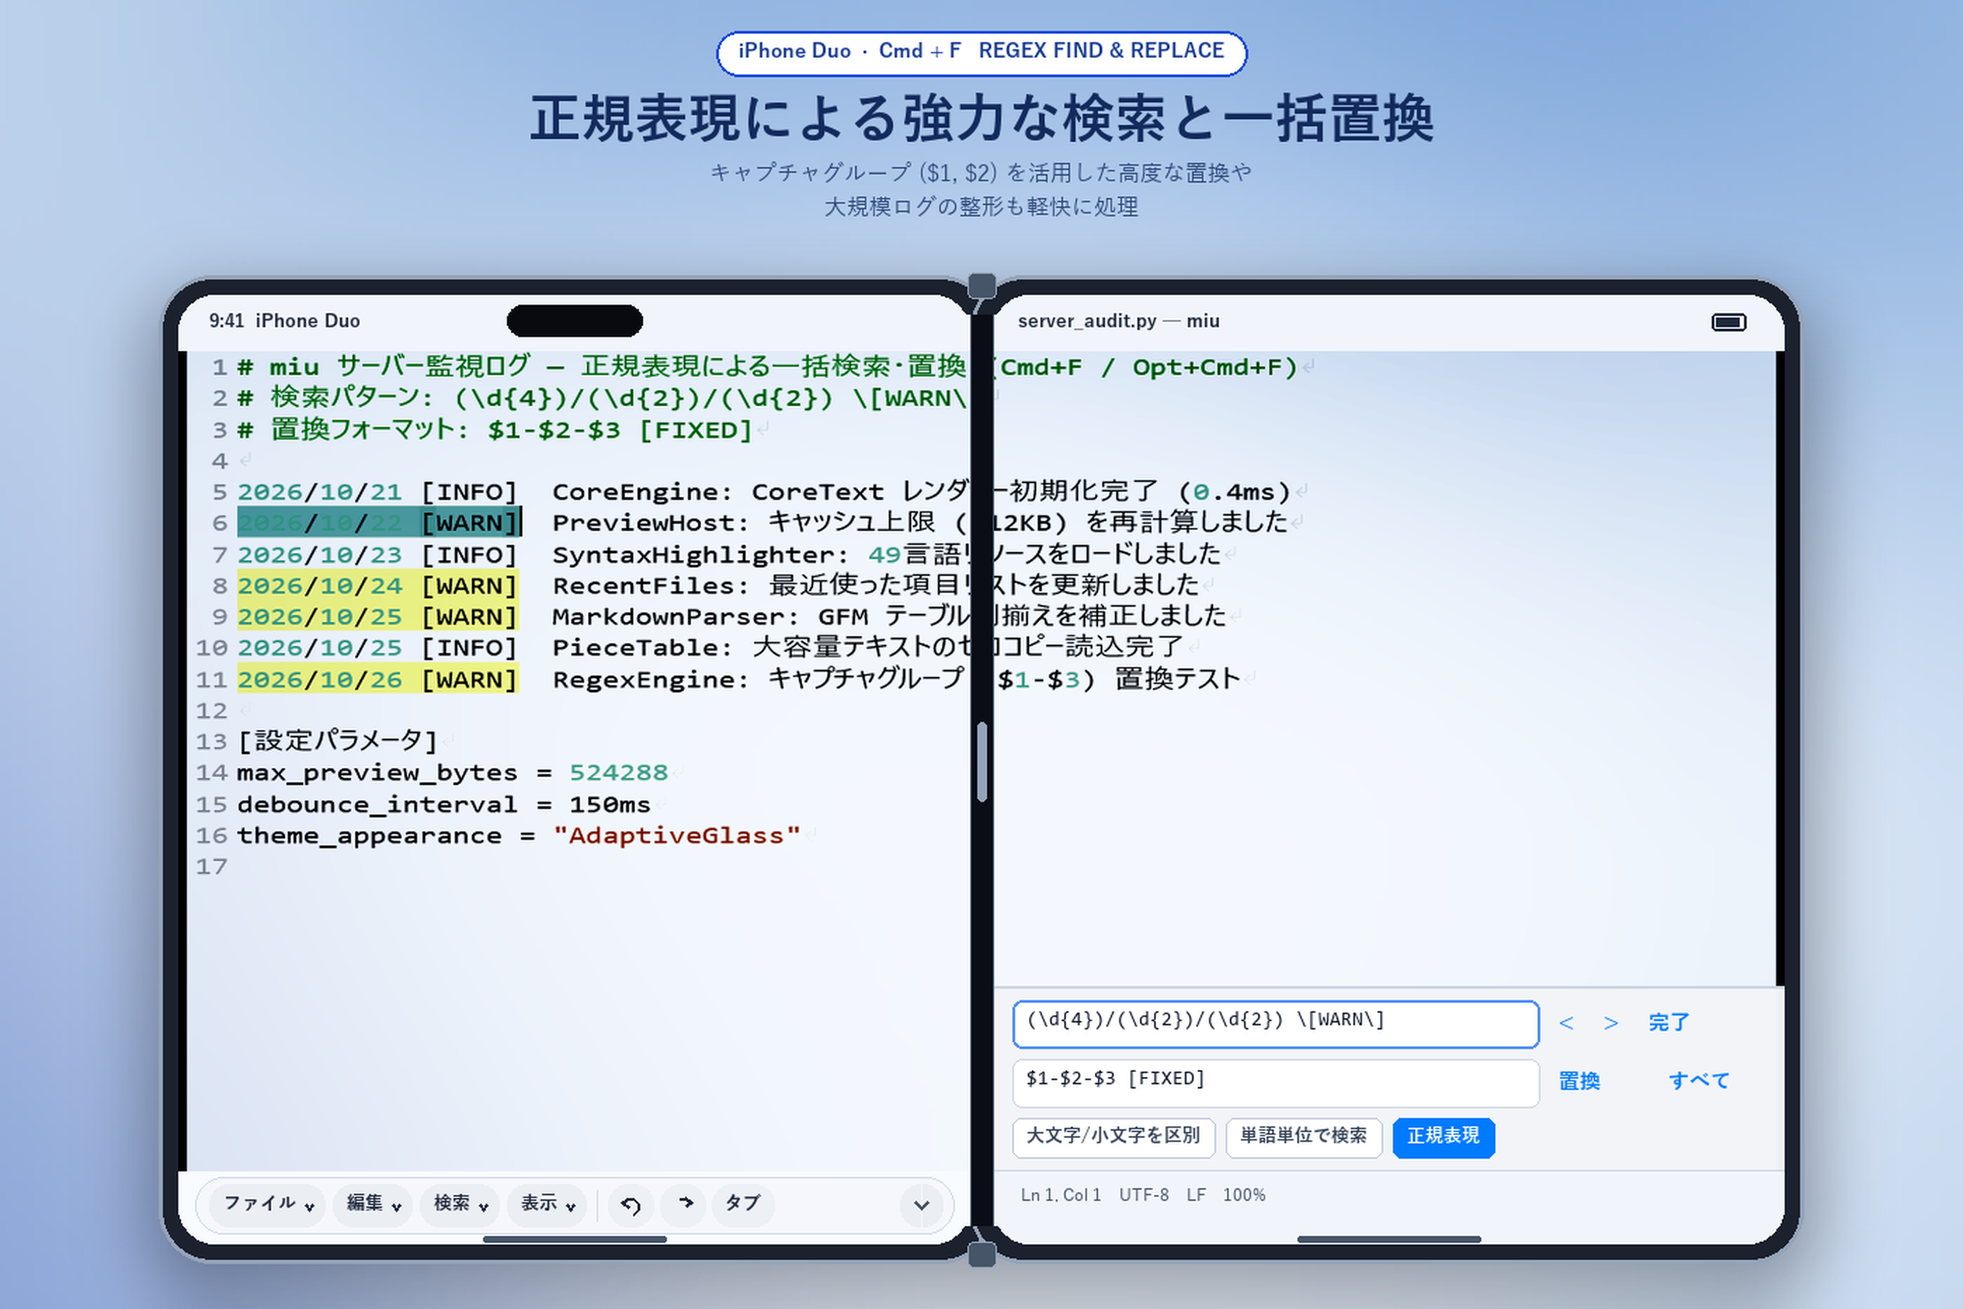
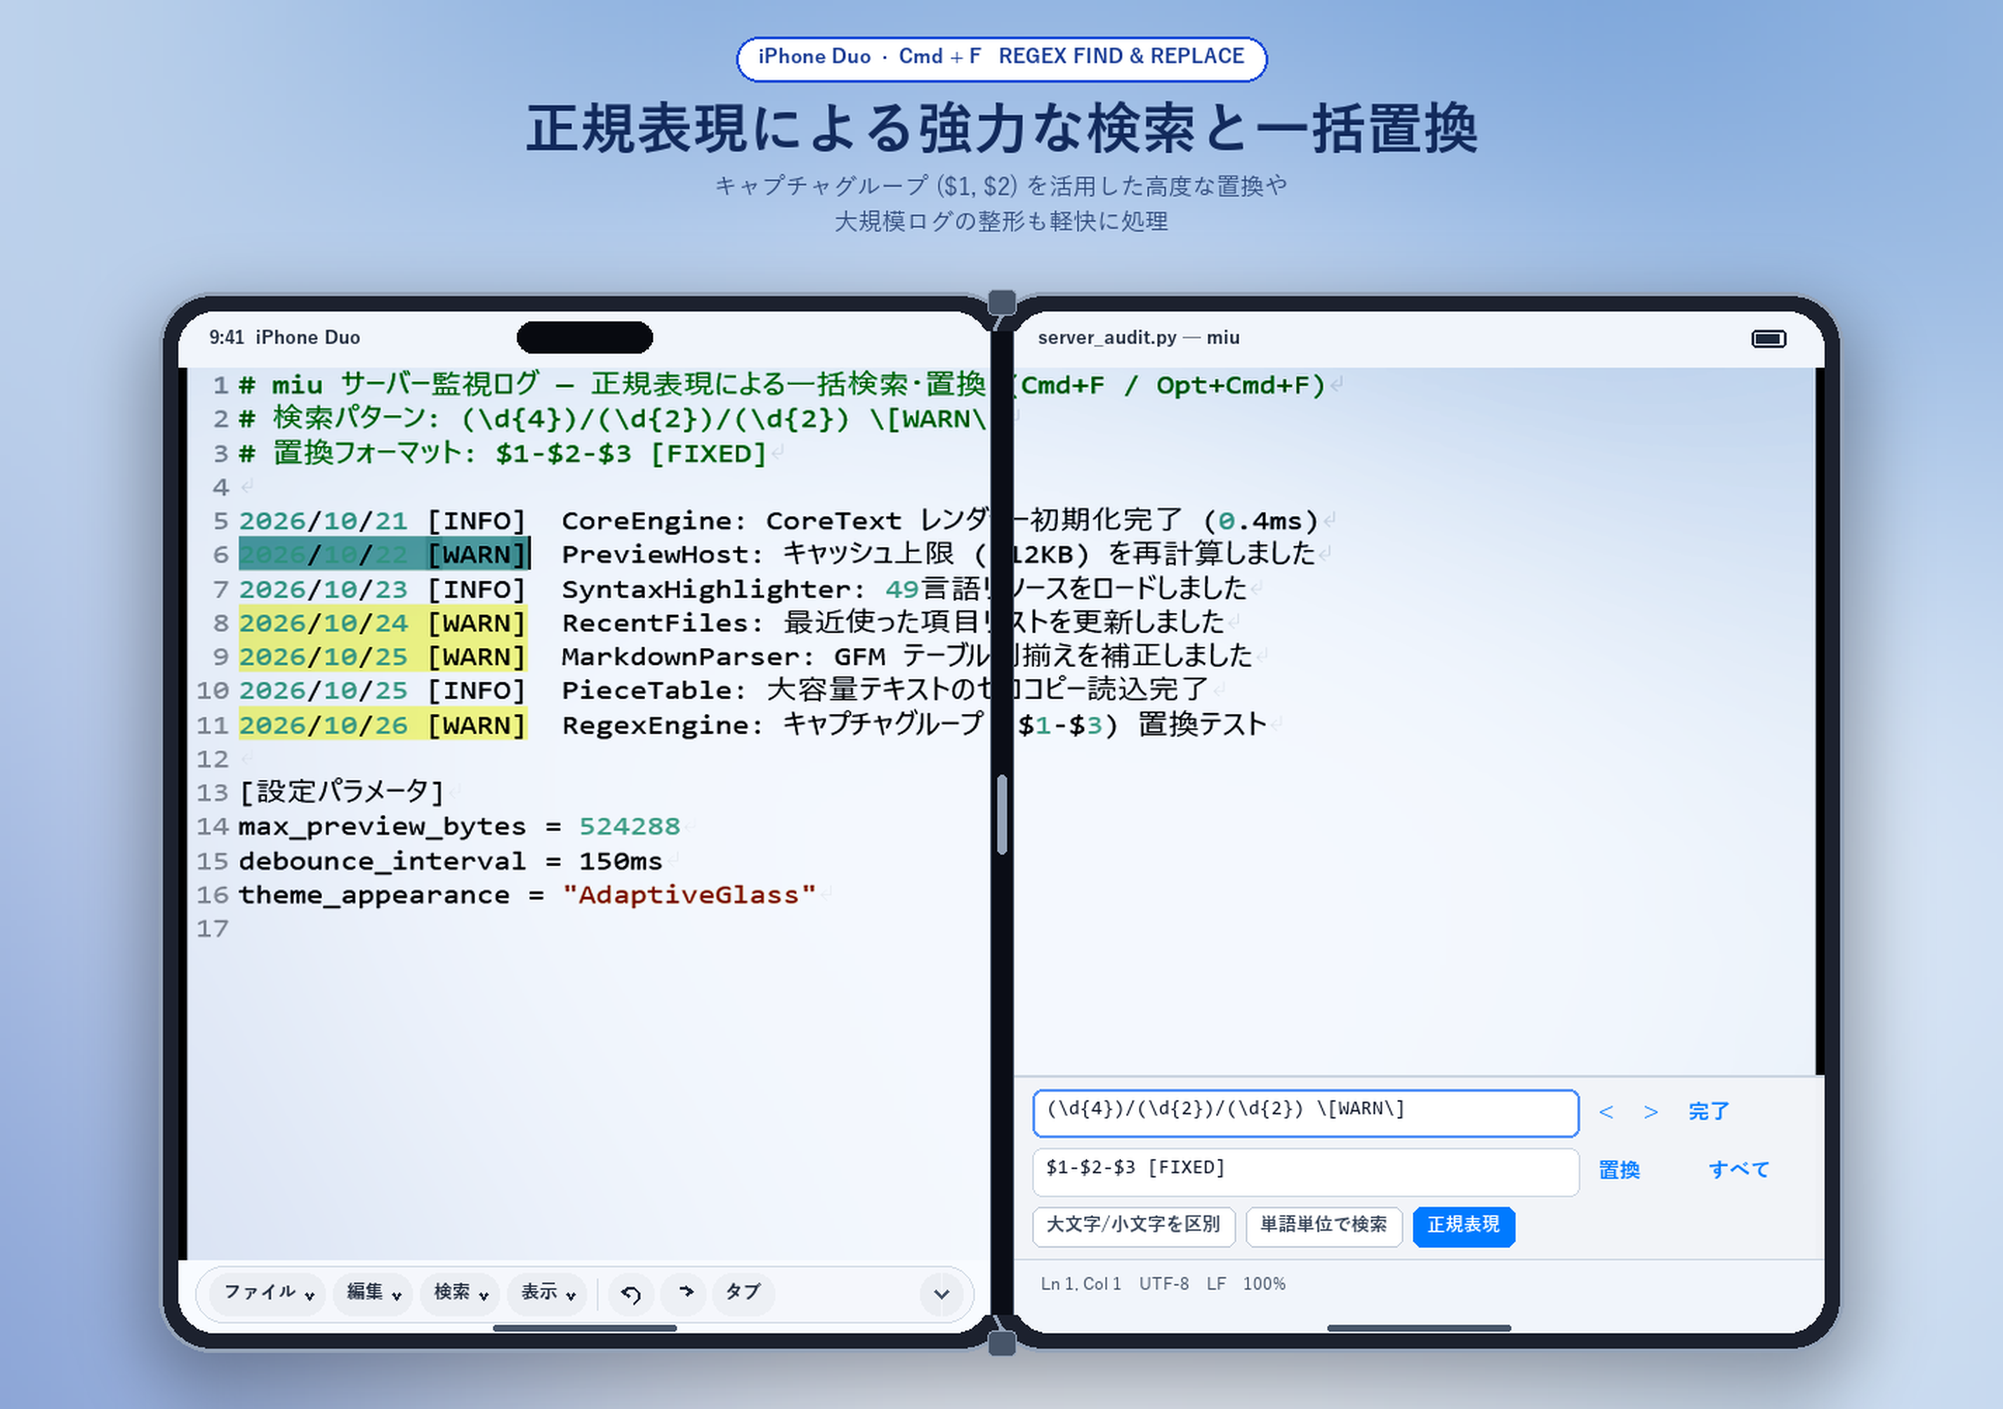
feat(store): sync APP_IPHONE_DUO (2853x2007) screenshot sets across all 34 locales

Changed region(s): [[0.0622, 0.0, 0.9335, 0.9646]]

diff --git a/scripts/appstore_screenshots_sync.py b/scripts/appstore_screenshots_sync.py
@@ -1344,9 +1344,11 @@ def draw_ios_category_popup_menu(ui_strings, is_dark, font_bold_path, font_reg_p
     return menu
 
 
-def render_iphone_duo_slide(spec, font_bold_path, font_reg_path, target_size=(2796, 1864)):
-    """Render an iPhone Duo unfolded dual-screen book-posture screenshot with 50:50 center-hinge split."""
-    W, H = 1398, 932
+def render_iphone_duo_slide(spec, font_bold_path, font_reg_path, target_size=(2853, 2007)):
+    """Render an iPhone Duo unfolded dual-screen book-posture screenshot with 50:50 center-hinge split.
+    Official App Store Connect APP_IPHONE_DUO sizes: 2853x2007 (Inner Landscape), 2007x2853, 2034x1398, 1398x2034.
+    """
+    W, H = 1426, 1004
     pal_key = (id(spec["palette"]), W, H)
     if pal_key not in IPHONE_DUO_BG_CACHE:
         IPHONE_DUO_BG_CACHE[pal_key] = make_mesh_background(W, H, spec["palette"])
@@ -1363,7 +1365,7 @@ def render_iphone_duo_slide(spec, font_bold_path, font_reg_path, target_size=(27
     bw = (bb[2] - bb[0]) + 32
     bh = 32
     bx = (W - bw) // 2
-    ty = 22
+    ty = 26
     if is_dark:
         cdraw.rounded_rectangle([bx, ty, bx + bw, ty + bh], radius=16, fill=(56, 189, 248, 45), outline=(56, 189, 248, 165), width=2)
         cdraw.text((bx + 16, ty + 6), badge_txt, font=f_badge, fill=(125, 211, 252, 255))
@@ -1375,7 +1377,7 @@ def render_iphone_duo_slide(spec, font_bold_path, font_reg_path, target_size=(27
     sep = "" if is_cjk else " "
     full_title = sep.join(spec["title"])
     max_tw = W - 120
-    title_sz = 38
+    title_sz = 40
     while title_sz > 22:
         f_title = ImageFont.truetype(font_bold_path, title_sz)
         tb = cdraw.textbbox((0, 0), full_title, font=f_title)
@@ -1383,27 +1385,27 @@ def render_iphone_duo_slide(spec, font_bold_path, font_reg_path, target_size=(27
             break
         title_sz -= 2
 
-    ty += 42
+    ty += 44
     title_col = (255, 255, 255, 255) if is_dark else (18, 42, 92, 255)
     tb = cdraw.textbbox((0, 0), full_title, font=f_title)
     cdraw.text(((W - (tb[2] - tb[0])) // 2, ty), full_title, font=f_title, fill=title_col)
 
-    ty += int(title_sz * 1.34)
+    ty += int(title_sz * 1.35)
     sub_col = (203, 213, 225, 245) if is_dark else (45, 72, 122, 240)
-    f_sub = ImageFont.truetype(font_reg_path, 16)
+    f_sub = ImageFont.truetype(font_reg_path, 17)
     for sline in spec["sub"]:
         sb = cdraw.textbbox((0, 0), sline, font=f_sub)
         cdraw.text(((W - (sb[2] - sb[0])) // 2, ty), sline, font=f_sub, fill=sub_col)
-        ty += 24
+        ty += 25
 
     # iPhone Duo Unfolded Dual-Screen Chassis Geometry
-    dev_w, dev_h = 1172, 704
+    dev_w, dev_h = 1200, 756
     bezel = 14
     hinge_w = 16
-    scr_w, scr_h = dev_w - bezel * 2, dev_h - bezel * 2  # 1144 x 676
-    pane_w = (scr_w - hinge_w) // 2                      # 564px per screen
+    scr_w, scr_h = dev_w - bezel * 2, dev_h - bezel * 2  # 1172 x 728
+    pane_w = (scr_w - hinge_w) // 2                      # 578px per screen
     dx = (W - dev_w) // 2
-    dy = 196
+    dy = 208
 
     # Drop shadow under both halves of the unfolded device
     shadow = Image.new("RGBA", (W, H), (0, 0, 0, 0))
@@ -1522,11 +1524,13 @@ def render_iphone_duo_slide(spec, font_bold_path, font_reg_path, target_size=(27
 # Batch Renderer for All Needed Display Types & Prefixes
 # ============================================================================
 
+DUO_TARGET_SIZE = (2853, 2007)
+
 DISPLAY_TYPE_RENDERERS = {
     "APP_DESKTOP": lambda spec, fb, fr: render_macos_slide(spec, fb, fr),
     "APP_IPHONE_67": lambda spec, fb, fr: render_iphone_slide(spec, fb, fr, (1290, 2796)),
     "APP_IPHONE_65": lambda spec, fb, fr: render_iphone_slide(spec, fb, fr, (1284, 2778)),
-    "APP_IPHONE_DUO": lambda spec, fb, fr: render_iphone_duo_slide(spec, fb, fr, (2796, 1864)),
+    "APP_IPHONE_DUO": lambda spec, fb, fr: render_iphone_duo_slide(spec, fb, fr, DUO_TARGET_SIZE),
     "APP_IPAD_PRO_3GEN_129": lambda spec, fb, fr: render_ipad_slide(spec, fb, fr, (2732, 2048)),
     "APP_IPAD_PRO_129": lambda spec, fb, fr: render_ipad_slide(spec, fb, fr, (2732, 2048)),
 }
@@ -1727,8 +1731,8 @@ def clean_all_existing_screenshots_for_locale(loc_id, locale):
     return total_deleted
 
 
-def sync_localization_screenshot_set(loc_id, locale, display_type, file_paths):
-    """Ensure the screenshot set exists for (loc_id, display_type), delete any remaining screenshots, and upload 5 new ones."""
+def sync_localization_screenshot_set(loc_id, locale, display_type, file_paths, force_clean=False, verify_delivery=False):
+    """Ensure the screenshot set exists for (loc_id, display_type), upload 5 screenshots if not already complete."""
     # 1. List existing sets for this localization
     r_sets = api_request("GET", f"{BASE_URL}/appStoreVersionLocalizations/{loc_id}/appScreenshotSets?limit=50")
     if r_sets.status_code != 200:
@@ -1767,25 +1771,47 @@ def sync_localization_screenshot_set(loc_id, locale, display_type, file_paths):
                     set_id = s["id"]
                     break
         if not set_id:
-            return False, f"[{locale}/{display_type}] Failed to create set ({r_create.status_code}): {r_create.text[:200]}"
+            return False, f"[{locale}/{display_type}] Failed to create set ({r_create.status_code}): {r_create.text[:300]}"
 
-    # 2. Ensure set is empty before uploading
+    # 2. Check existing screenshots in this set
     r_existing = api_request("GET", f"{BASE_URL}/appScreenshotSets/{set_id}/appScreenshots?limit=50")
+    existing_items = r_existing.json().get("data", []) if r_existing.status_code == 200 else []
+    if not force_clean and len(existing_items) == len(file_paths):
+        all_ok = all(
+            item.get("attributes", {}).get("assetDeliveryState", {}).get("state") in ("COMPLETE", "UPLOAD_COMPLETE")
+            for item in existing_items
+        )
+        if all_ok:
+            return True, f"[{locale}/{display_type}] Already has {len(existing_items)} complete screenshots (skipped)"
+
     deleted_count = 0
-    if r_existing.status_code == 200:
-        for old_ss in r_existing.json().get("data", []):
-            old_id = old_ss["id"]
-            r_del = api_request("DELETE", f"{BASE_URL}/appScreenshots/{old_id}")
-            if r_del.status_code in (200, 204, 404):
-                deleted_count += 1
+    for old_ss in existing_items:
+        old_id = old_ss["id"]
+        r_del = api_request("DELETE", f"{BASE_URL}/appScreenshots/{old_id}")
+        if r_del.status_code in (200, 204, 404):
+            deleted_count += 1
 
     # 3. Upload the 5 new screenshots in order (1..5)
     uploaded_ids = []
-    for fpath in file_paths:
+    for idx, fpath in enumerate(file_paths):
         ok, info = upload_single_screenshot(set_id, fpath)
         if not ok:
             return False, f"[{locale}/{display_type}] {info}"
         uploaded_ids.append(info)
+
+        # Optionally verify first screenshot processing state on App Store Connect
+        if verify_delivery and idx == 0:
+            for _ in range(8):
+                time.sleep(1.5)
+                r_chk = api_request("GET", f"{BASE_URL}/appScreenshots/{info}")
+                if r_chk.status_code == 200:
+                    st_obj = r_chk.json().get("data", {}).get("attributes", {}).get("assetDeliveryState", {})
+                    st = st_obj.get("state", "")
+                    errs = st_obj.get("errors", [])
+                    if errs or st == "FAILED":
+                        return False, f"DELIVERY_FAILED:{st}:{errs}"
+                    if st == "COMPLETE":
+                        break
 
     # 4. Explicitly set the ordering relationship on the set
     order_payload = {
@@ -1796,8 +1822,41 @@ def sync_localization_screenshot_set(loc_id, locale, display_type, file_paths):
     return True, f"[{locale}/{display_type}] Uploaded {len(uploaded_ids)} screenshots"
 
 
+def discover_iphone_duo_display_type(existing_locs):
+    """Discover or confirm the exact ScreenshotDisplayType enum value for iPhone Duo on IOS."""
+    probe_loc_id = existing_locs.get("ja") or existing_locs.get("en-US") or next(iter(existing_locs.values()))
+    r = api_request("GET", f"{BASE_URL}/appStoreVersionLocalizations/{probe_loc_id}/appScreenshotSets?limit=50")
+    if r.status_code == 200:
+        for s in r.json().get("data", []):
+            dt = s.get("attributes", {}).get("screenshotDisplayType", "")
+            if "DUO" in dt or "FOLD" in dt:
+                print(f"[IOS] Found existing iPhone Duo screenshot set with displayType={dt}")
+                return dt
+
+    candidates = ["APP_IPHONE_DUO", "APP_IPHONE_FOLD", "APP_IPHONE_DUAL"]
+    for cand in candidates:
+        payload = {
+            "data": {
+                "type": "appScreenshotSets",
+                "attributes": {"screenshotDisplayType": cand},
+                "relationships": {
+                    "appStoreVersionLocalization": {
+                        "data": {"type": "appStoreVersionLocalizations", "id": probe_loc_id}
+                    }
+                },
+            }
+        }
+        r_try = api_request("POST", f"{BASE_URL}/appScreenshotSets", json_data=payload)
+        if r_try.status_code in (200, 201, 409):
+            print(f"[IOS] Confirmed iPhone Duo displayType={cand} (HTTP {r_try.status_code})")
+            return cand
+        else:
+            print(f"[IOS] Probe {cand} returned HTTP {r_try.status_code}: {r_try.text[:300]}")
+    return "APP_IPHONE_DUO"
+
+
 def discover_platform_display_types(version_id, plat, existing_locs):
-    """Discover active screenshotDisplayTypes configured on primary locales, ensuring both iPhone & iPad on IOS."""
+    """Discover active screenshotDisplayTypes configured on primary locales, ensuring iPhone, iPhone Duo & iPad on IOS."""
     if plat == "MAC_OS":
         return ["APP_DESKTOP"]
 
@@ -1814,15 +1873,23 @@ def discover_platform_display_types(version_id, plat, existing_locs):
                         discovered_iphone = dt
                     elif dt in ("APP_IPAD_PRO_3GEN_129", "APP_IPAD_PRO_129") and not discovered_ipad:
                         discovered_ipad = dt
+
+    duo_dt = discover_iphone_duo_display_type(existing_locs)
+    if duo_dt not in DISPLAY_TYPE_RENDERERS:
+        DISPLAY_TYPE_RENDERERS[duo_dt] = DISPLAY_TYPE_RENDERERS["APP_IPHONE_DUO"]
+
     return [
         discovered_iphone or "APP_IPHONE_67",
+        duo_dt,
         discovered_ipad or "APP_IPAD_PRO_3GEN_129",
     ]
 
 
 def main():
+    global DUO_TARGET_SIZE
     parser = argparse.ArgumentParser()
     parser.add_argument("--local-test", action="store_true", help="Render ja & en-US screenshots locally without uploading")
+    parser.add_argument("--force-clean", action="store_true", help="Delete and re-upload even if a set already has 5 complete screenshots")
     parser.add_argument("--out-dir", default=os.path.join(REPO_ROOT, "build_screenshots"), help="Output directory for generated PNGs")
     args = parser.parse_args()
 
@@ -1853,32 +1920,86 @@ def main():
         display_types = discover_platform_display_types(version_id, plat, existing_locs)
         print(f"[{plat}] Target screenshotDisplayTypes: {display_types}")
 
-        # Delete all existing screenshots across all sets for all locales first
-        print(f"[{plat}] Cleaning existing screenshots across {len(existing_locs)} locales...")
-        with ThreadPoolExecutor(max_workers=8) as clean_pool:
-            clean_futs = {
-                clean_pool.submit(clean_all_existing_screenshots_for_locale, loc_id, loc): loc
-                for loc, loc_id in existing_locs.items()
-            }
-            total_del = sum(f.result() for f in as_completed(clean_futs))
-        print(f"[{plat}] Deleted {total_del} existing screenshot(s).")
+        if args.force_clean:
+            print(f"[{plat}] Force-cleaning existing screenshots across {len(existing_locs)} locales...")
+            with ThreadPoolExecutor(max_workers=8) as clean_pool:
+                clean_futs = {
+                    clean_pool.submit(clean_all_existing_screenshots_for_locale, loc_id, loc): loc
+                    for loc, loc_id in existing_locs.items()
+                }
+                total_del = sum(f.result() for f in as_completed(clean_futs))
+            print(f"[{plat}] Deleted {total_del} existing screenshot(s).")
 
-        # Also clean any other existing screenshot sets not in display_types if needed
-        # First pre-render all 28 language prefixes for each display_type in display_types
+        # Determine which (locale, dt) sets actually need uploading (in parallel)
+        pending_tasks_by_dt = {dt: [] for dt in display_types}
+        skipped_count = 0
+
+        def _check_loc(item):
+            locale, loc_id = item
+            if args.force_clean:
+                return locale, loc_id, list(display_types), 0
+            r_sets = api_request("GET", f"{BASE_URL}/appStoreVersionLocalizations/{loc_id}/appScreenshotSets?limit=50")
+            set_map = {}
+            if r_sets.status_code == 200:
+                for s in r_sets.json().get("data", []):
+                    set_map[s.get("attributes", {}).get("screenshotDisplayType", "")] = s["id"]
+            need = []
+            skip = 0
+            for dt in display_types:
+                if dt in set_map:
+                    r_ss = api_request("GET", f"{BASE_URL}/appScreenshotSets/{set_map[dt]}/appScreenshots?limit=50")
+                    items = r_ss.json().get("data", []) if r_ss.status_code == 200 else []
+                    if len(items) == 5 and all(
+                        it.get("attributes", {}).get("assetDeliveryState", {}).get("state") in ("COMPLETE", "UPLOAD_COMPLETE")
+                        for it in items
+                    ):
+                        skip += 1
+                        continue
+                need.append(dt)
+            return locale, loc_id, need, skip
+
+        with ThreadPoolExecutor(max_workers=8) as chk_pool:
+            for locale, loc_id, need_dts, skip_c in chk_pool.map(_check_loc, sorted(existing_locs.items())):
+                skipped_count += skip_c
+                for dt in need_dts:
+                    pending_tasks_by_dt[dt].append((loc_id, locale))
+
+        active_dts = [dt for dt in display_types if pending_tasks_by_dt[dt]]
+        print(f"[{plat}] {skipped_count} sets already complete (skipped); active displayTypes to render & upload: {active_dts}")
+        if not active_dts:
+            continue
+
+        # Pre-render all needed language prefixes for active_dts
         rendered_map = {}  # (prefix, dt) -> list of 5 paths
         needed_prefixes = sorted(set(ASC_LOCALE_TO_PREFIX[loc] for loc in existing_locs if loc in ASC_LOCALE_TO_PREFIX))
-        print(f"[{plat}] Rendering {len(needed_prefixes)} language sets for {display_types}...")
+        print(f"[{plat}] Rendering {len(needed_prefixes)} language sets for {active_dts}...")
         t_render = time.time()
         for prefix in needed_prefixes:
-            for dt in display_types:
+            for dt in active_dts:
                 rendered_map[(prefix, dt)] = render_prefix_display_type(prefix, dt, args.out_dir)
         print(f"[{plat}] Finished rendering {len(rendered_map) * 5} screenshots in {time.time() - t_render:.1f}s.")
 
-        # Upload across all localizations in parallel
+        # If any active_dt is iPhone Duo, verify the first locale ('ja') delivery before parallel upload
+        for dt in active_dts:
+            if "DUO" in dt or "FOLD" in dt:
+                first_loc_id, first_locale = pending_tasks_by_dt[dt][0]
+                first_prefix = ASC_LOCALE_TO_PREFIX.get(first_locale, "en")
+                print(f"[{plat}] Verifying {dt} dimension acceptance ({DUO_TARGET_SIZE}) on {first_locale}...")
+                ok_probe, msg_probe = sync_localization_screenshot_set(
+                    first_loc_id, first_locale, dt, rendered_map[(first_prefix, dt)], force_clean=True, verify_delivery=True
+                )
+                print(f"  [PROBE] {msg_probe}", flush=True)
+                if not ok_probe and "DELIVERY_FAILED" in msg_probe and DUO_TARGET_SIZE != (2034, 1398):
+                    print(f"[{plat}] Switching {dt} target resolution from {DUO_TARGET_SIZE} to (2034, 1398) and re-rendering...")
+                    DUO_TARGET_SIZE = (2034, 1398)
+                    for prefix in needed_prefixes:
+                        rendered_map[(prefix, dt)] = render_prefix_display_type(prefix, dt, args.out_dir)
+
+        # Upload across all pending localizations in parallel
         tasks = []
-        for locale, loc_id in sorted(existing_locs.items()):
-            prefix = ASC_LOCALE_TO_PREFIX.get(locale, "en")
-            for dt in display_types:
+        for dt in active_dts:
+            for loc_id, locale in pending_tasks_by_dt[dt]:
+                prefix = ASC_LOCALE_TO_PREFIX.get(locale, "en")
                 tasks.append((loc_id, locale, dt, rendered_map[(prefix, dt)]))
 
         print(f"[{plat}] Uploading {len(tasks)} screenshot sets ({len(tasks) * 5} screenshots) with ThreadPoolExecutor...")
@@ -1886,7 +2007,7 @@ def main():
         fail_count = 0
         with ThreadPoolExecutor(max_workers=8) as pool:
             future_map = {
-                pool.submit(sync_localization_screenshot_set, loc_id, locale, dt, fpaths): (locale, dt)
+                pool.submit(sync_localization_screenshot_set, loc_id, locale, dt, fpaths, args.force_clean): (locale, dt)
                 for (loc_id, locale, dt, fpaths) in tasks
             }
             for fut in as_completed(future_map):
@@ -1903,7 +2024,7 @@ def main():
                     fail_count += 1
                     print(f"  [EXC] [{locale}/{dt}] {ex}", flush=True)
 
-        print(f"[{plat}] Summary: {ok_count} sets succeeded, {fail_count} failed.")
+        print(f"[{plat}] Summary: {ok_count} sets succeeded ({skipped_count} already complete), {fail_count} failed.")
 
 
 if __name__ == "__main__":
